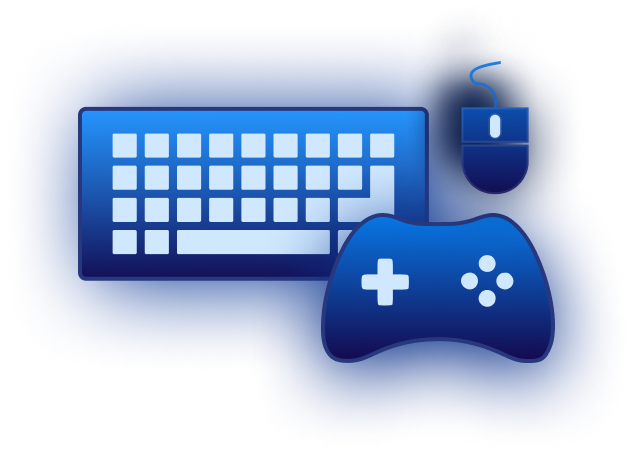
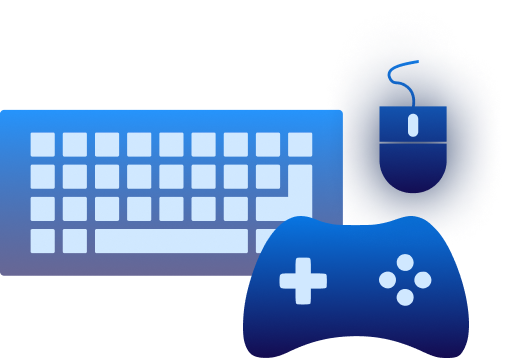
website improvements

diff --git a/website/src/pages/index.tsx b/website/src/pages/index.tsx
@@ -74,10 +74,10 @@ const IndexPage = () => {
                   </div>
                   {imagesPreloaded && (
                     <FadeIn style={{display: `flex`, marginLeft: MQ_Full ? `auto` : undefined, justifyContent: `center`, alignItems: `center`}} durationMs={500} delayMs={500}>
-                      <div style={{alignSelf: 'center', backgroundImage: `url(${Devices})`, backgroundSize: `contain`, backgroundRepeat: `no-repeat`, minWidth: `10min`, maxHeight: 600, width: MQ_Full ? `600px` : `380px`, aspectRatio: `1`}} />
+                      <div style={{alignSelf: 'center', backgroundImage: `url(${Devices})`, backgroundSize: `contain`, backgroundRepeat: `no-repeat`, minWidth: `10min`, maxHeight: 600, width: MQ_Full ? `500px` : `330px`, aspectRatio: `1`}} />
                     </FadeIn>
                   )}
-                  {!MQ_Full && <GetStartedButton marginTop={-80} />}
+                  {!MQ_Full && <GetStartedButton marginTop={-20} />}
                 </div>
               </>
             </div>
@@ -90,4 +90,4 @@ const IndexPage = () => {
 
 export default IndexPage;
 
-export const Head: HeadFC = () => <title>RXNInput - Cross Platform Input Handler for React and React Native.</title>;
+export const Head: HeadFC = () => <title>RXN Input - Cross Platform Input Handler for React and React Native.</title>;

diff --git a/website/gatsby-config.ts b/website/gatsby-config.ts
@@ -10,6 +10,12 @@ const config: GatsbyConfig = {
   graphqlTypegen: true,
   pathPrefix: '/rxn-input/',
   plugins: [
+    {
+      resolve: 'gatsby-plugin-manifest',
+      options: {
+        icon: 'src/assets/icon.png'
+      }
+    },
     `gatsby-plugin-sitemap`,
     {
       resolve: 'gatsby-plugin-react-svg',

diff --git a/website/src/pages/404.tsx b/website/src/pages/404.tsx
@@ -12,4 +12,4 @@ const NotFoundPage = () => {
 
 export default NotFoundPage;
 
-export const Head: HeadFC = () => <title>RXNInput - Documentation</title>;
+export const Head: HeadFC = () => <title>RXN Input - Documentation</title>;

diff --git a/website/src/pages/docs.tsx b/website/src/pages/docs.tsx
@@ -12,4 +12,4 @@ const DocsPage = () => {
 
 export default DocsPage;
 
-export const Head: HeadFC = () => <title>RXNInput - Documentation</title>;
+export const Head: HeadFC = () => <title>RXN Input - Documentation</title>;

diff --git a/website/src/pages/examples.tsx b/website/src/pages/examples.tsx
@@ -12,4 +12,4 @@ const ExamplesPage = () => {
 
 export default ExamplesPage;
 
-export const Head: HeadFC = () => <title>RXNInput - Examples</title>;
+export const Head: HeadFC = () => <title>RXN Input - Examples</title>;
